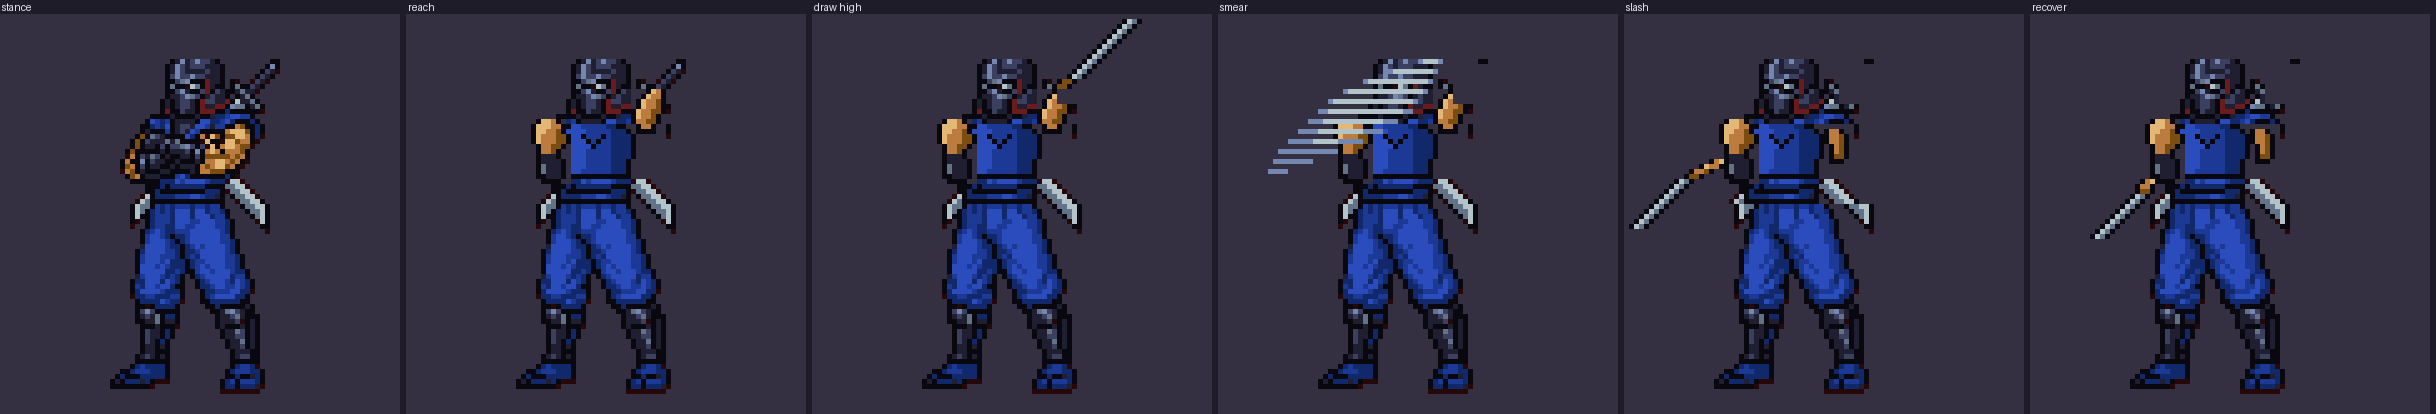
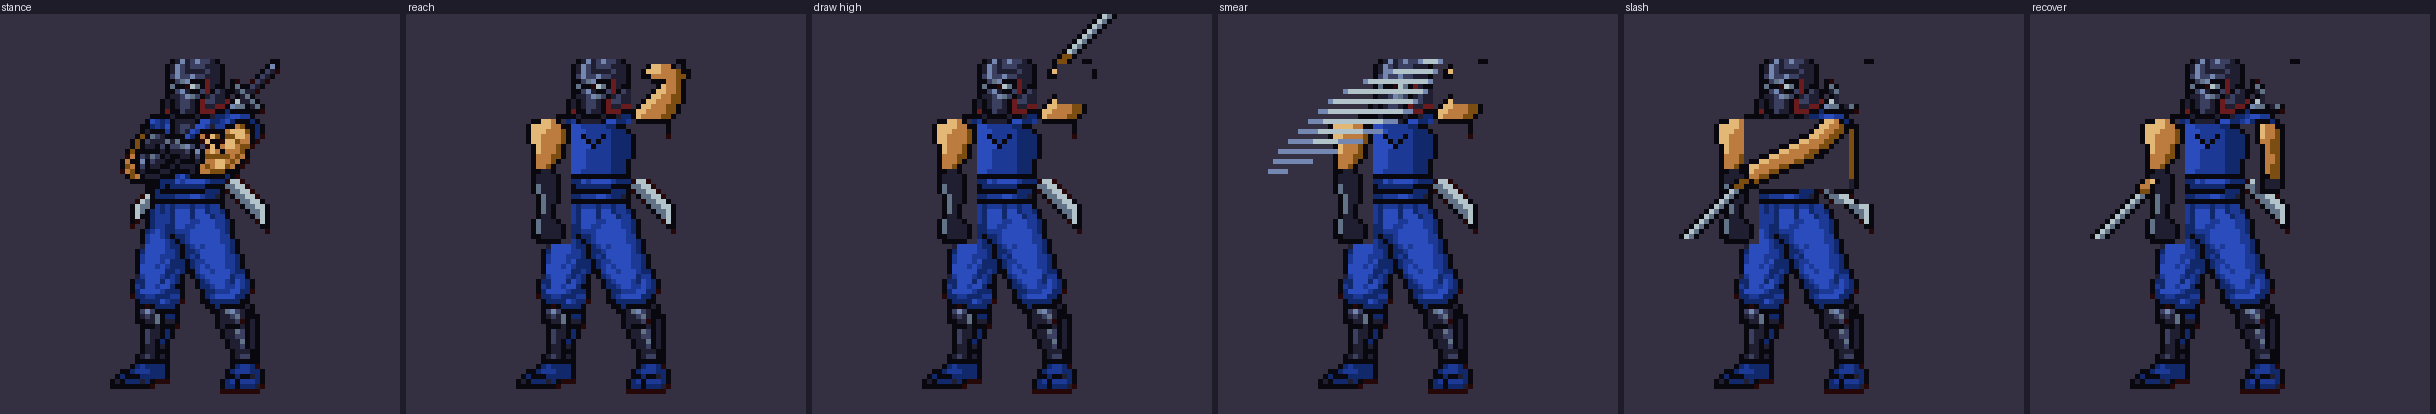
Mike's ninja: anatomical arms — deltoid, biceps, elbow at the belt, tapering gloved forearm, fist at mid-thigh; bent raised arm; full swinging arm in the slash
Claude-Session: https://claude.ai/code/session_0156S23pwVB8PAo3CNfbv2Nz

diff --git a/tools/sf/mike_ninja/frames.py b/tools/sf/mike_ninja/frames.py
@@ -77,40 +77,66 @@ CHEST = [R(s) for s in [          # stamped at sprite (9, 13)
     ".kffhhhhhhaaak.",
     ".kkkkkkkkkkkkk.",
 ]]
-ARM_DOWN_NEAR = [R(s) for s in [  # stamped at sprite (2, 13): bare upper arm from the shoulder, glove at the hip
-    ".kjjck.",
-    "kjjjcck",
-    "kjjcclk",
-    "kjcccllk",
-    "kjcccllk",
-    ".kccllk.",
-    ".kcclk..",
-    ".keeek..",
-    ".keeeek.",
-    ".kdeeek.",
-    ".kdeeek.",
-    ".kkeeek.",
-    "..kkkk..",
+# Arm anatomy at this scale (head = 14 px): shoulder at row 12, elbow at the belt (row ~24), wrist at row ~33,
+# fingertips at mid-thigh (row ~40). Upper arm 6 px wide with the deltoid cap and biceps swell, forearm swelling
+# just under the elbow then tapering to a 3-px wrist; the hanging arm hangs with a slight bend at the elbow.
+# Light from the upper-left: j (light) on the outer-top planes, c (mid), l (dark) on the underside.
+ARM_DOWN_NEAR = [R(s) for s in [  # stamped at sprite (2, 12)
+    ".kkjjck.",     # 12 deltoid cap
+    "kjjjjcck",     # 13
+    "kjjjccclk",    # 14
+    "kjjcccclk",    # 15 biceps
+    "kjjcccclk",    # 16
+    ".kjccclk.",    # 17
+    ".kjccclk.",    # 18
+    ".kcccllk.",    # 19
+    ".kccclk..",    # 20 toward the elbow
+    ".kcclk...",    # 21
+    ".kkeek...",    # 22 elbow / glove cuff
+    ".keeeek..",    # 23 forearm swell (gloved)
+    ".keeeek..",    # 24
+    ".kdeeek..",    # 25
+    ".kdeeek..",    # 26
+    "..kdeek..",    # 27
+    "..kdeek..",    # 28 taper
+    "..kdek...",    # 29
+    "..kdek...",    # 30
+    "..keek...",    # 31 wrist
+    ".kdeeek..",    # 32 fist
+    ".kdeeeek.",    # 33
+    ".kdeeeek.",    # 34
+    ".kkeeeek.",    # 35
+    "..kkkkk..",    # 36
 ]]
-ARM_UP_FAR = [R(s) for s in [     # stamped at sprite (23, 6): the far arm raised over the shoulder to the hilt
-    "...kjck",
-    "..kjcck",
-    ".kjcclk",
-    ".kjcclk",
-    "kjccllk",
-    "kjcclk.",
-    "kccllk.",
-    ".kcck..",
-    ".kkkk..",
+ARM_UP_FAR = [R(s) for s in [     # stamped at sprite (23, 1): shoulder bottom-left, elbow top-right, forearm back to the hand at the hilt
+    "...kjjcck.k.",   # 1 hand gripping the hilt (hilt drawn by the beat, passes behind)
+    "..kjjjccclkk",   # 2 forearm, running right to the elbow
+    "..kkcccccllk",   # 3
+    "....kkkcclk.",   # 4 elbow point
+    ".....kjcclk.",   # 5 upper arm, down-left to the shoulder
+    "....kjjcclk.",   # 6
+    "...kjjccllk.",   # 7
+    "..kjjcccllk.",   # 8
+    ".kjjcccllk..",   # 9
+    "kjjccccllk..",   # 10 deltoid
+    "kjccccllk...",   # 11
+    ".kkkkkkk....",   # 12
 ]]
-ARM_DOWN_FAR = [R(s) for s in [   # the far arm hanging behind the far side of the chest
-    "kcck",
-    "kcclk",
-    "kcclk",
-    ".kclk",
-    ".kclk",
-    ".kllk",
-    ".kkk.",
+ARM_DOWN_FAR = [R(s) for s in [   # the far arm hanging behind the far side of the chest (partly hidden)
+    "kjcck",
+    "kjcclk",
+    "kjcclk",
+    "kccllk",
+    ".kcllk",
+    ".kcllk",
+    ".kcclk",
+    ".kcclk",
+    ".kcllk",
+    ".kcllk",
+    ".kkllk",
+    ".keeek",
+    ".keeek",
+    ".kkkk.",
 ]]
 
 
@@ -120,13 +146,13 @@ def open_torso(g, dx=0, dy=0, far="up"):
     for i, row in enumerate(CHEST):
         P(g, 13 + i, 9, row, dx, dy)
     for i, row in enumerate(ARM_DOWN_NEAR):
-        P(g, 12 + i, 3, row, dx, dy)
+        P(g, 12 + i, 2, row, dx, dy)
     if far == "up":
         for i, row in enumerate(ARM_UP_FAR):
-            P(g, 6 + i, 23, row, dx, dy)
+            P(g, 1 + i, 23, row, dx, dy)
     else:
         for i, row in enumerate(ARM_DOWN_FAR):
-            P(g, 14 + i, 24, row, dx, dy)
+            P(g, 13 + i, 25, row, dx, dy)
 
 
 def blade(g, x, y, n, step, dx=0, dy=0):
@@ -152,8 +178,8 @@ def draw_high():
     open_torso(g, far="up")
     # the back sheath now empty: the little hilt that stuck up behind the head is gone
     g.clear(X_OFF + 27, TOP + 1, X_OFF + 34, TOP + 9)
-    P(g, 5, 26, R("kllk")); P(g, 4, 27, R("kllk"))               # the hilt in the raised hand
-    blade(g, 29, 3, 12, (1, -1))                                 # blade up-right
+    P(g, 0, 26, R("kllk")); P(g, -1, 27, R("kllk"))              # the hilt in the raised hand
+    blade(g, 28, -2, 12, (1, -1))                                # blade up-right from the hilt
     return g.tidy()
 
 
@@ -179,9 +205,27 @@ def slash():
     g.shift_region(0, TOP, BOX, TOP + 29, -2, 0)             # the upper body leans toward the foe
     open_torso(g, dx=-6, far="down")
     g.clear(X_OFF + 21, TOP + 1, X_OFF + 32, TOP + 9)
-    # the far arm swung down and forward past the near side
-    P(g, 20, 1, R("kcjk"), -6); P(g, 21, -1, R("kjcck"), -6); P(g, 22, -3, R("kcclk"), -6); P(g, 23, -4, R("kllk"), -6)
-    blade(g, -6, 24, 10, (-1, 1), dx=-6)                    # blade down-left
+    # the far arm swung down and forward past the near side: a full arm from the far shoulder to the hand
+    SWING = [R(s) for s in [
+        "...............kjjck",
+        "..............kjjcclk",
+        ".............kjjccllk",
+        "...........kkjjccllk.",
+        ".........kkjjcccllk..",
+        ".......kkjjccccllk...",
+        ".....kkjjccccllkk....",
+        "...kkjjcccccllkk.....",
+        ".kkjjcccccllkk.......",
+        "kjjccccllkkk.........",
+        "kjcccllkk............",
+        "kccllkk..............",
+        "kllkk................",
+        "kkk..................",
+    ]]
+    for i, row in enumerate(SWING):
+        P(g, 12 + i, 8, row, -6)
+    P(g, 24, 6, R("kllk"), -6); P(g, 25, 5, R("kllk"), -6)   # the hilt in the hand
+    blade(g, 4, 26, 10, (-1, 1), dx=-6)                       # blade down-left
     return g.tidy()
 
 
